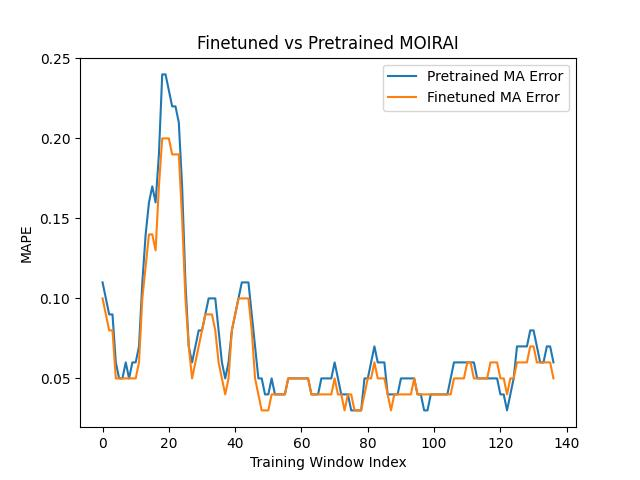
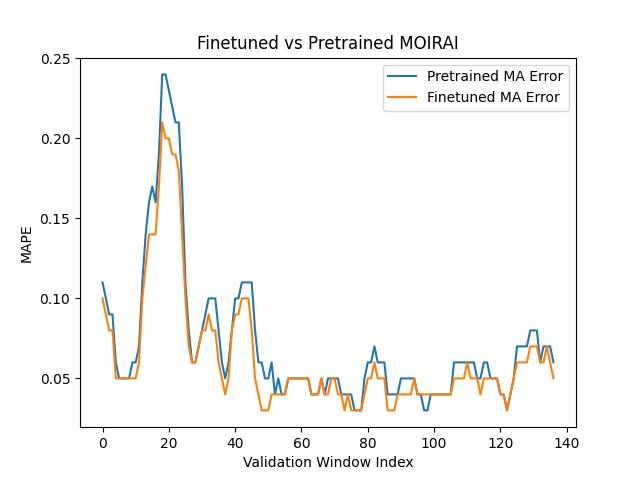
fix error with worng x-axis label in jpeg

diff --git a/cli/download_models.py b/cli/download_models.py
@@ -26,11 +26,12 @@ if __name__ == "__main__":
 
     for blob in container_client.list_blobs():
         blob_name = blob.name
-        blob_path = "/".join(blob_name.split("/")[:-1])
+        if "crypto_data/stage_one" in blob_name:
+            blob_path = "/".join(blob_name.split("/")[:-1])
 
-        os.makedirs(os.path.join(args.download_dir, blob_path), exist_ok=True)
+            os.makedirs(os.path.join(args.download_dir, blob_path), exist_ok=True)
 
-        with open(
-            file=os.path.join(args.download_dir, blob_name), mode="wb"
-        ) as download_file:
-            download_file.write(container_client.download_blob(blob_name).readall())
+            with open(
+                file=os.path.join(args.download_dir, blob_name), mode="wb"
+            ) as download_file:
+                download_file.write(container_client.download_blob(blob_name).readall())
